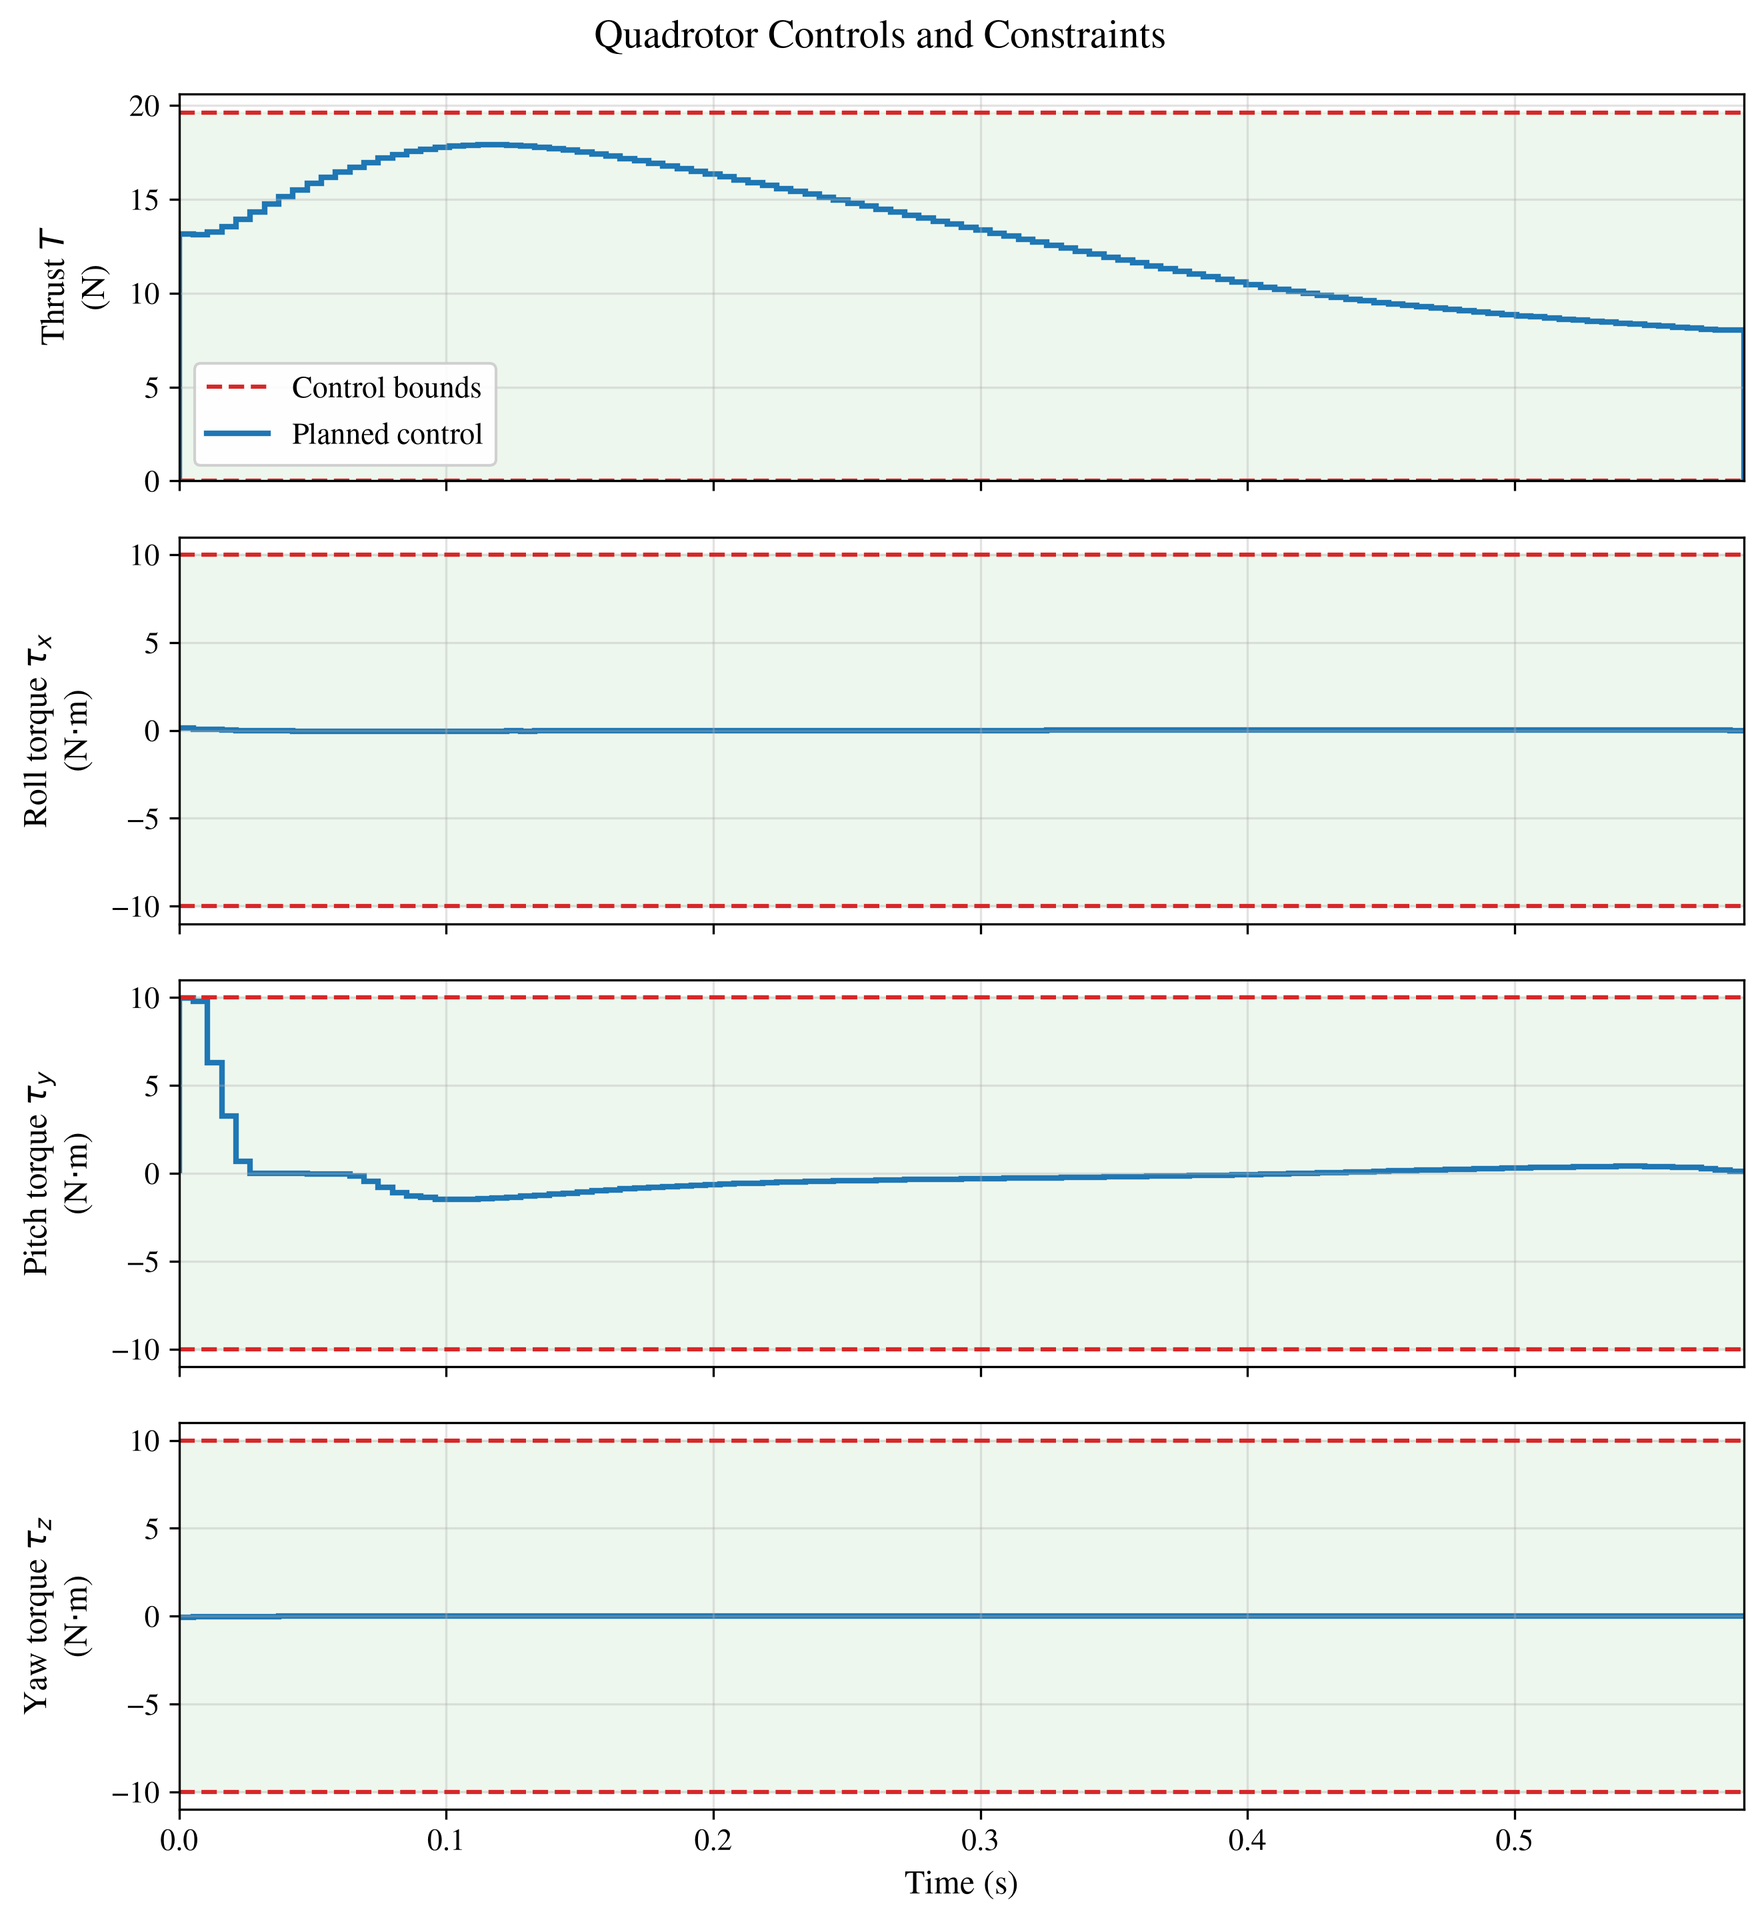
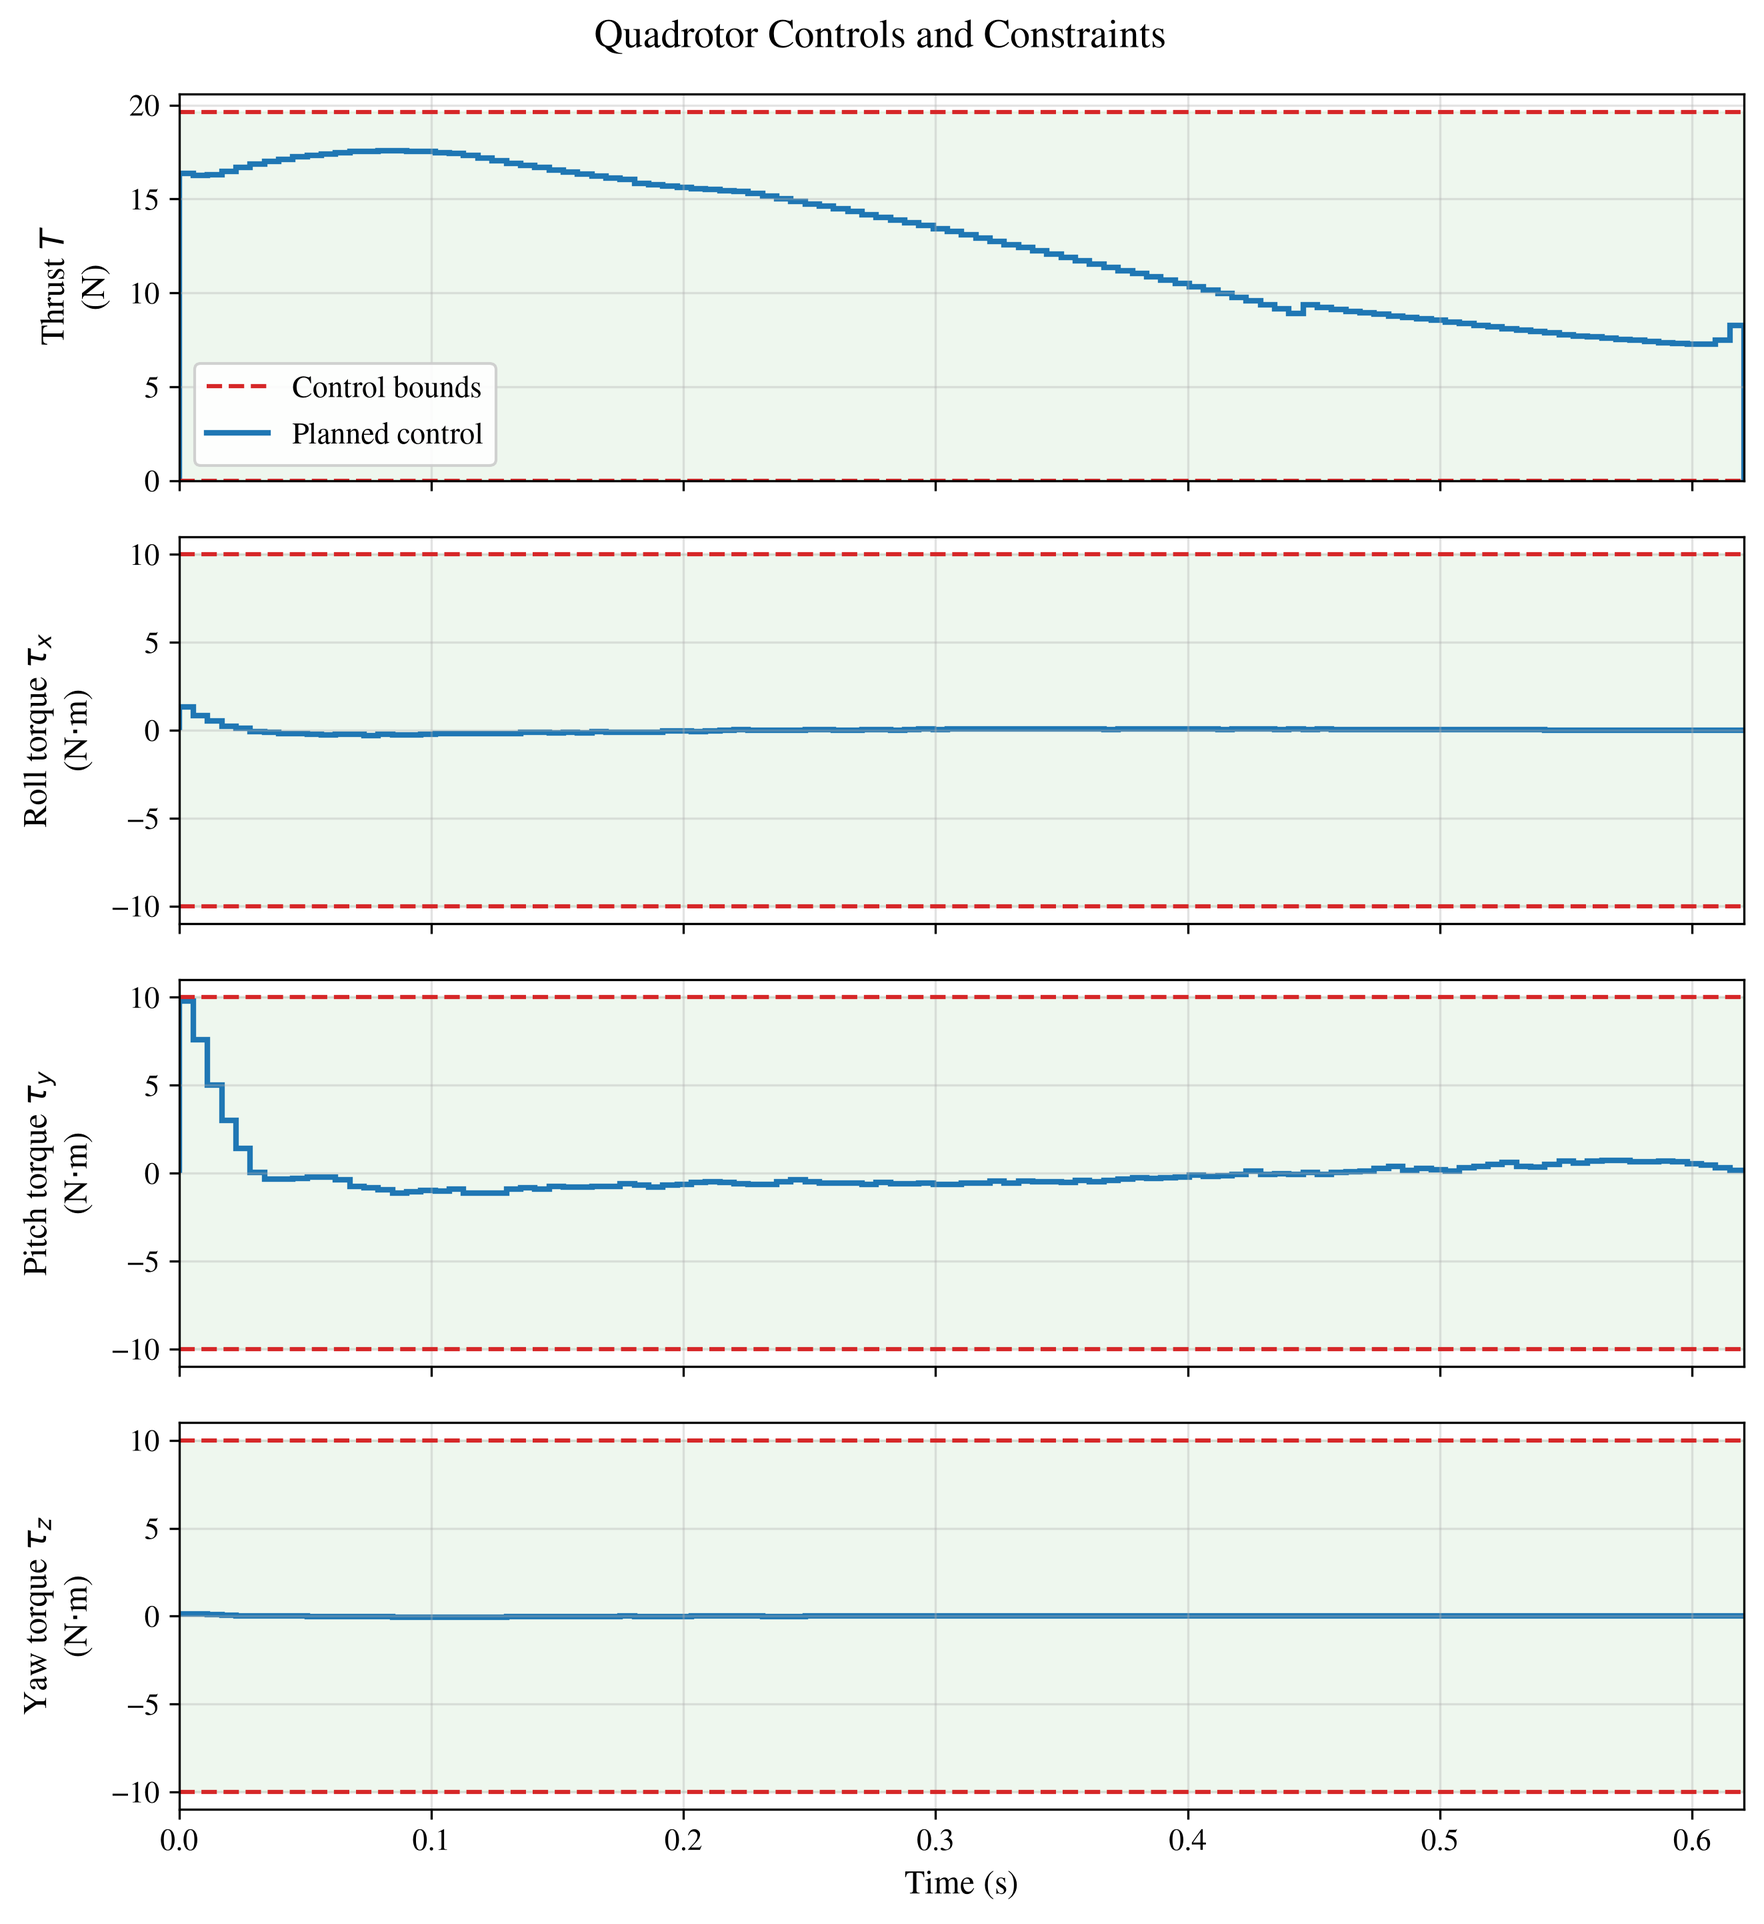
min time

diff --git a/src/gpu_sls/gpu_sqp.py b/src/gpu_sls/gpu_sqp.py
@@ -156,6 +156,7 @@ def compute_search_direction(
     x0, X, U, V, c,
     w, y, rho,
     h_ct_ws, beta_ws, mu_ws, Phi_x_ws, Phi_u_ws,
+    P_ws, K_kj_ws,
     sqp_iteration
 ):
     T = U.shape[0]
@@ -199,7 +200,7 @@ def compute_search_direction(
     E = disturbance(X)
 
     Q_bar = jnp.broadcast_to(jnp.eye(Q.shape[1]), Q.shape)
-    R_bar = jnp.broadcast_to(jnp.eye(R.shape[1]), R.shape)
+    R_bar = jnp.broadcast_to(jnp.eye(R.shape[1]) * 0.5, R.shape)
 
     n_obs = obstacles.shape[0]
 
@@ -212,26 +213,26 @@ def compute_search_direction(
         Phi_u   = jnp.zeros((T, T + 1, nu, nx))
         betaN   = jnp.ones((T + 1, T + 1, nc - n_obs)) * 1e-10
         muN     = jnp.zeros((T + 1, nc))
-        return dX, dU, dV, w1, y1, rho1, backoffs, Phi_x, Phi_u, betaN, muN, converged_admm
+        return dX, dU, dV, w1, y1, rho1, backoffs, Phi_x, Phi_u, betaN, muN, P_ws, K_kj_ws, converged_admm
 
     def run_sls(_):
-        dX, dU, dV, w1, y1, rho1, converged, converged_admm, backoffs, Phi_x, Phi_u, betaN, muN = sls_solve_gpu(
-            admm_config,
+        dX, dU, dV, w1, y1, rho1, converged, converged_admm, backoffs, Phi_x, Phi_u, betaN, muN, PN, K_kjN = sls_solve_gpu(
+            admm_config, disturbance,
             Q, q, R, r, M, A, B, c,
             C_all, D_all, f_all, w, y, rho, sls_config,
-            E, Q_bar, R_bar, obstacles, X, h_ct_ws, beta_ws, mu_ws, Phi_x_ws, Phi_u_ws
+            Q_bar, R_bar, obstacles, X, h_ct_ws, beta_ws, mu_ws, Phi_x_ws, Phi_u_ws, P_ws, K_kj_ws
         )
-        return dX, dU, dV, w1, y1, rho1, backoffs, Phi_x, Phi_u, betaN, muN, converged_admm
+        return dX, dU, dV, w1, y1, rho1, backoffs, Phi_x, Phi_u, betaN, muN, PN, K_kjN, converged_admm
 
     use_nominal = jnp.logical_or(
         jnp.logical_not(sls_config.enable_fastsls),
         jnp.logical_and(sls_config.enable_fastsls, sqp_iteration < sls_config.max_initial_sqp_iterations)
     )
-    dX, dU, dV, w1, y1, rho1, backoffs, Phi_x, Phi_u, betaN, muN, converged_admm = lax.cond(
+    dX, dU, dV, w1, y1, rho1, backoffs, Phi_x, Phi_u, betaN, muN, PN, K_kjN, converged_admm= lax.cond(
         use_nominal, run_nominal, run_sls, operand=None
     )
 
-    return dX, dU, dV, q, r, w1, y1, rho1, backoffs, Phi_x, Phi_u, betaN, muN, converged_admm
+    return dX, dU, dV, q, r, w1, y1, rho1, backoffs, Phi_x, Phi_u, betaN, muN, PN, K_kjN, converged_admm
 
 
 @partial(jit, static_argnums=(0,1,2,3,4,5,6,7))
@@ -244,7 +245,7 @@ def sqp(
     x0, X_in, U_in, V_in,
     w, y, rho,
     obstacles,
-    h_ct_ws, beta_ws, mu_ws, Phi_x_ws, Phi_u_ws, converged_admm_prev
+    h_ct_ws, beta_ws, mu_ws, Phi_x_ws, Phi_u_ws, P_ws, K_kj_ws, converged_admm_prev
 ):
     _cost = partial(cost, W, reference)
     if hessian_approx is not None:
@@ -256,7 +257,7 @@ def sqp(
     model_evaluator = partial(model_evaluator_helper_min_time, _cost, _dynamics, x0)
 
     def body(i, carry):
-        i, X_curr, U_curr, V_curr, w, y, rho, converged, backoffs, Phi_x, Phi_u, beta_ws, mu_w, converged_admm = carry
+        i, X_curr, U_curr, V_curr, w, y, rho, converged, backoffs, Phi_x, Phi_u, beta_ws, mu_w, P_ws, K_kj_ws, converged_admm = carry
 
         def do_nothing(_):
             return carry
@@ -272,14 +273,14 @@ def sqp(
             y0   = lax.select(warm_flag, y, jnp.zeros_like(y))
             rho0 = lax.select(warm_flag, rho, jnp.asarray(admm_config.initial_rho, dtype=rho.dtype))
             h_ct_ws = backoffs
-            dX, dU, dV, q, r, w1, y1, rho1, backoffs1, Phi_x1, Phi_u1, betaN, muN, converged_admm_new = compute_search_direction(
+            dX, dU, dV, q, r, w1, y1, rho1, backoffs1, Phi_x1, Phi_u1, betaN, muN, PN, K_kjN, converged_admm_new = compute_search_direction(
                 sls_config, admm_config,
                 _cost, _dynamics, _hessian_approx,
                 constraints, disturbance,
                 obstacles,
                 x0, X_curr, U_curr, V_curr, c,
                 w0, y0, rho0,
-                h_ct_ws, beta_ws, mu_ws, Phi_x_ws, Phi_u_ws, i
+                h_ct_ws, beta_ws, mu_ws, Phi_x_ws, Phi_u_ws, P_ws, K_kj_ws, i
             )
 
             step = jnp.maximum(
@@ -335,13 +336,13 @@ def sqp(
 
             return (i + 1, X_next, U_next, V_next, w_next, y_next, rho_next,
                     jnp.logical_or(converged, converged1),
-                    backoffs_next, Phi_x_next, Phi_u_next, betaN, muN, converged_admm_new)
+                    backoffs_next, Phi_x_next, Phi_u_next, betaN, muN, PN, K_kjN, converged_admm_new)
 
         return lax.cond(converged, do_nothing, do_iter, operand=None)
 
     backoffs0 = h_ct_ws
-    carry0 = (0, X_in, U_in, V_in, w, y, rho, jnp.array(False), backoffs0, Phi_x_ws, Phi_u_ws, beta_ws, mu_ws, converged_admm_prev)
-    total_iterations, X_out, U_out, V_out, w_out, y_out, rho_out, converged, backoffs, Phi_x, Phi_u, betaN, muN, converged_admm = lax.fori_loop(
+    carry0 = (0, X_in, U_in, V_in, w, y, rho, jnp.array(False), backoffs0, Phi_x_ws, Phi_u_ws, beta_ws, mu_ws, P_ws, K_kj_ws, converged_admm_prev)
+    total_iterations, X_out, U_out, V_out, w_out, y_out, rho_out, converged, backoffs, Phi_x, Phi_u, betaN, muN, PN, K_kjN, converged_admm = lax.fori_loop(
         0, sqp_config.max_sqp_iterations + sls_config.max_initial_sqp_iterations, body, carry0,
     )
-    return X_out, U_out, V_out, w_out, y_out, rho_out, backoffs, Phi_x, Phi_u, betaN, muN, converged_admm
+    return X_out, U_out, V_out, w_out, y_out, rho_out, backoffs, Phi_x, Phi_u, betaN, muN, PN, K_kjN, converged_admm

diff --git a/examples/quadrotor_min_time/quadrotor.py b/examples/quadrotor_min_time/quadrotor.py
@@ -2,7 +2,7 @@ from __future__ import annotations
 
 from dataclasses import dataclass
 import os
-from typing import Any, Callable
+from typing import Any
 
 import jax
 import jax.numpy as jnp
@@ -264,35 +264,78 @@ def make_terminal_set_constraint(center: jnp.ndarray, half_width: jnp.ndarray, N
 def make_min_time_disturbance(
     n: int,
     E_mag: float,
+    N: int,
     disturbance_index: int = 6,
 ):
-    """Disturbance acts only on v_x.
+    """Create pointwise and trajectory disturbance maps.
 
-    The disturbance channel is
-
-        x_{k+1} = f(x_k, u_k) + dt * E_mag * e_vx * w_vx,
-
-    where v_x is state index 6.
-
-    The full (n, n) matrix is retained because the SLS implementation
-    expects an n-dimensional disturbance vector.
+    Assumption:
+        The last component of every state x_k is the optimized final time.
     """
-    def disturbance(X_prefix: jnp.ndarray) -> jnp.ndarray:
-        N = X_prefix.shape[0] - 1
-        final_time = X_prefix[0, -1]
+
+    def disturbance_at_state(x_k: jnp.ndarray) -> jnp.ndarray:
+        """
+        x_k: shape (n,)
+        returns: shape (n, n)
+        """
+        final_time = x_k[-1]  # scalar
         dt = final_time / N
 
-        E0 = jnp.zeros((n, n), dtype=X_prefix.dtype)
-        E0 = E0.at[disturbance_index, disturbance_index].set(
-            dt * E_mag
-        )
+        E_k = jnp.zeros((n, n), dtype=x_k.dtype)
 
-        return jnp.broadcast_to(
-            E0,
-            (X_prefix.shape[0], n, n),
-        )
+        return E_k.at[
+            disturbance_index,
+            disturbance_index,
+        ].set(dt * E_mag)
+
+    def disturbance(X: jnp.ndarray) -> jnp.ndarray:
+        """
+        X: shape (T + 1, n)
+        returns: shape (T + 1, n, n)
+        """
+        return jax.vmap(disturbance_at_state)(X)
+
+    # Expose the pointwise function for local differentiation.
+    disturbance.at_state = disturbance_at_state
 
     return disturbance
+
+# def make_min_time_disturbance(
+#     n: int,
+#     N: int,
+#     disturbance_index: int = 6,
+# ):
+#     """
+#     Disturbance magnitude:
+#         - 3.0 for z >= 0.25
+#         - decreases quadratically to 0.1 at z = 0
+#         - clipped at 0.1 below z = 0
+#     """
+
+#     def disturbance_at_state(x_k: jnp.ndarray) -> jnp.ndarray:
+#         z = x_k[2]
+#         final_time = x_k[-1]
+#         dt = final_time / N
+
+#         # Normalize altitude into [0, 1]
+#         s = jnp.clip(z / 0.25, 0.0, 1.0)
+
+#         # Quadratic profile
+#         E_mag = 0.1 + (3.0 - 0.1) * s**2
+
+#         E_k = jnp.zeros((n, n), dtype=x_k.dtype)
+#         E_k = E_k.at[
+#             disturbance_index,
+#             disturbance_index,
+#         ].set(dt * E_mag)
+
+#         return E_k
+
+#     def disturbance(X: jnp.ndarray) -> jnp.ndarray:
+#         return jax.vmap(disturbance_at_state)(X)
+
+#     disturbance.at_state = disturbance_at_state
+#     return disturbance
 
 def make_sphere_obstacle_constraint(
     center: jnp.ndarray,
@@ -413,7 +456,7 @@ def main():
 
     constraints_x = make_state_box_constraints(x_min, x_max)
     terminal_center = jnp.array([1.0, 0.1, 0.5], dtype=jnp.float32)
-    terminal_half_width = jnp.array([0.2, 0.2, 0.2], dtype=jnp.float32)
+    terminal_half_width = jnp.array([0.4, 0.4, 0.4], dtype=jnp.float32)
     terminal_constraint = make_terminal_set_constraint(
         terminal_center, terminal_half_width, N
     )
@@ -433,8 +476,9 @@ def main():
     n_obs = obstacles.shape[0]
     nc = 2 * nu + 2 * n + n_obs + 6 + 1
 
-    E_mag = 0.1
-    disturbance = make_min_time_disturbance(n=n, E_mag=E_mag)
+    E_mag = 3.5
+    disturbance = make_min_time_disturbance(n=n, E_mag=E_mag, N=N)
+    # disturbance = make_min_time_disturbance(n=n, N=N)
 
     # -----------------------------
     # Initial / goal
@@ -467,8 +511,8 @@ def main():
     # Solver configs
     # -----------------------------
     admm_cfg = ADMMConfig(
-        eps_abs=1e-2,
-        eps_rel=1e-2,
+        eps_abs=5e-2,
+        eps_rel=1e-3,
         rho_max=1e3,
         max_iterations=1000,
         rho_update_frequency=25,

diff --git a/src/gpu_sls/gpu_sls copy.py b/src/gpu_sls/gpu_sls copy.py
@@ -322,39 +322,54 @@ def add_obstacle_tightenings(
 #     return h_ct
 
 def smooth_row_norm(A: jnp.ndarray, eps: float = 1e-8) -> jnp.ndarray:
-    """Smooth Euclidean row norm used by the ellipsoidal tightening."""
-    return jnp.sqrt(jnp.sum(jnp.square(A), axis=-1) + eps)
+    return jnp.sqrt(
+        jnp.sum(jnp.square(A), axis=-1) + eps
+    )
 
-
-def tightening_from_nominal_state(
+def local_tightening_jacobian(
     disturbance_fn,
-    x_nom: jnp.ndarray,
-    A: jnp.ndarray,
-    B: jnp.ndarray,
-    P: jnp.ndarray,
-    K_kj: jnp.ndarray,
-    C_box: jnp.ndarray,
-    D_box: jnp.ndarray,
-) -> jnp.ndarray:
-    """Recompute the complete tightening sequence from the nominal states.
-
-    The controller response ``P, K_kj`` and linearized dynamics ``A, B`` are
-    intentionally frozen.  Therefore autodiff captures only the dependence
-
-        x_j -> E(x_j) -> Phi_{k,j} -> h_k,
-
-    including the effect of every previous disturbance injection on every
-    later-stage tightening.
-
-    Returns
-    -------
-    h_ct : (T + 1, nc)
+    primal_pos,
+    C_box,
+    D_box,
+    K_kj,
+):
     """
-    E = disturbance_fn(x_nom)
-    Phi_x, Phi_u = forward_rollout(E, A, B, P, K_kj)
-    beta = get_betas(C_box, D_box, Phi_x, Phi_u)
-    return get_constraint_tightenings(beta)
+    Computes dh_k / dx_k.
 
+    primal_pos: (T + 1, nx)
+    returns:    (T + 1, nc, nx)
+    """
+    T = K_kj.shape[0]
+
+    disturbance_at_state = disturbance_fn.at_state
+
+    def stage_jacobian(k):
+        def h_k(x_k):
+            E_k = disturbance_at_state(x_k)                # (nx, nw)
+            G_k = C_box[k] + D_box[k] @ K_kj[k, k]         # (nc, nx)
+            # G_k = C_box[k]
+            return smooth_row_norm(G_k @ E_k)
+
+        return jax.jacrev(h_k)(primal_pos[k])               # (nc, nx)
+
+    dh_dx_stage = lax.map(
+        stage_jacobian,
+        jnp.arange(T),
+    )
+
+    def h_terminal(x_T):
+        E_T = disturbance_at_state(x_T)
+        return smooth_row_norm(C_box[T] @ E_T)
+
+    dh_dx_terminal = jax.jacrev(h_terminal)(primal_pos[T])
+
+    return jnp.concatenate(
+        [
+            dh_dx_stage,
+            dh_dx_terminal[None, :, :],
+        ],
+        axis=0,
+    )
 
 @partial(jit, static_argnums=(0, 1, 16))
 def sls_solve_gpu(cfg, disturbance_fn, Q: jnp.ndarray, q: jnp.ndarray,
@@ -408,9 +423,25 @@ def sls_solve_gpu(cfg, disturbance_fn, Q: jnp.ndarray, q: jnp.ndarray,
         rho = lax.select(warm_flag, rho, jnp.array(cfg.initial_rho, dtype=rho.dtype))
         C_box = C[:, :num_regular_constraints, :]
         D_box = D[:, :num_regular_constraints, :]
-        # C_combined = C + dh_dx_all
+        # dh_dx_full = jax.jacrev(tightening_from_nominal_state, argnums=1)(
+        #     disturbance_fn, primal_pos,
+        #     A, B,
+        #     P_prev, K_kj_prev,
+        #     C_box, D_box)
+        # k_idx = jnp.arange(Tp1)
+        # dh_dx_local = dh_dx_full[k_idx, :, k_idx, :]
+        dh_dx_local = local_tightening_jacobian(
+            disturbance_fn,
+            primal_pos,
+            C_box,
+            D_box,
+            K_kj_prev,
+        )
+        dh_dx_local = dh_dx_local.at[..., -1].set(0.0)
+        jax.debug.print("{}", dh_dx_local)
+        C_combined = C + dh_dx_local
         x_curr, u_curr, v_curr, w, y, rho, mu, converged_admm = constrained_solve(
-            cfg, Q, q, R, r, M, A, B, c, C, D, tightened_constraints_all, w, y, rho
+            cfg, Q, q, R, r, M, A, B, c, C_combined, D, tightened_constraints_all, w, y, rho
         )
         prev_rho = rho
 

diff --git a/src/gpu_sls/generic_mpc.py b/src/gpu_sls/generic_mpc.py
@@ -88,6 +88,14 @@ class GenericMPC:
             )
         )
 
+        self.P_ws = jnp.zeros(
+            (config.N, config.N +1, config.n, config.n)
+        )
+
+        self.K_kj_ws = jnp.zeros(
+            (config.N, config.N + 1, config.nu, config.n)
+        )
+
         self.converged_admm = False
 
         self.U0 = U_in
@@ -150,6 +158,7 @@ class GenericMPC:
             Phi_u,
             betaN,
             muN,
+            PN, K_kjN,
             converged_admm,
         ) = self._solve(
             reference,
@@ -168,6 +177,7 @@ class GenericMPC:
             self.mu_ws,
             self.Phi_x_ws,
             self.Phi_u_ws,
+            self.P_ws, self.K_kj_ws,
             self.converged_admm,
         )
 
@@ -197,6 +207,9 @@ class GenericMPC:
         self.U0 = shift_and_pad(U)
         self.X0 = shift_and_pad(X)
         self.V0 = shift_and_pad(V)
+
+        self.P_ws = PN
+        self.K_kj_ws = K_kjN
 
         # Constraint and tube warm starts
         self.h_ct_ws = shift_and_pad(backoffs)
